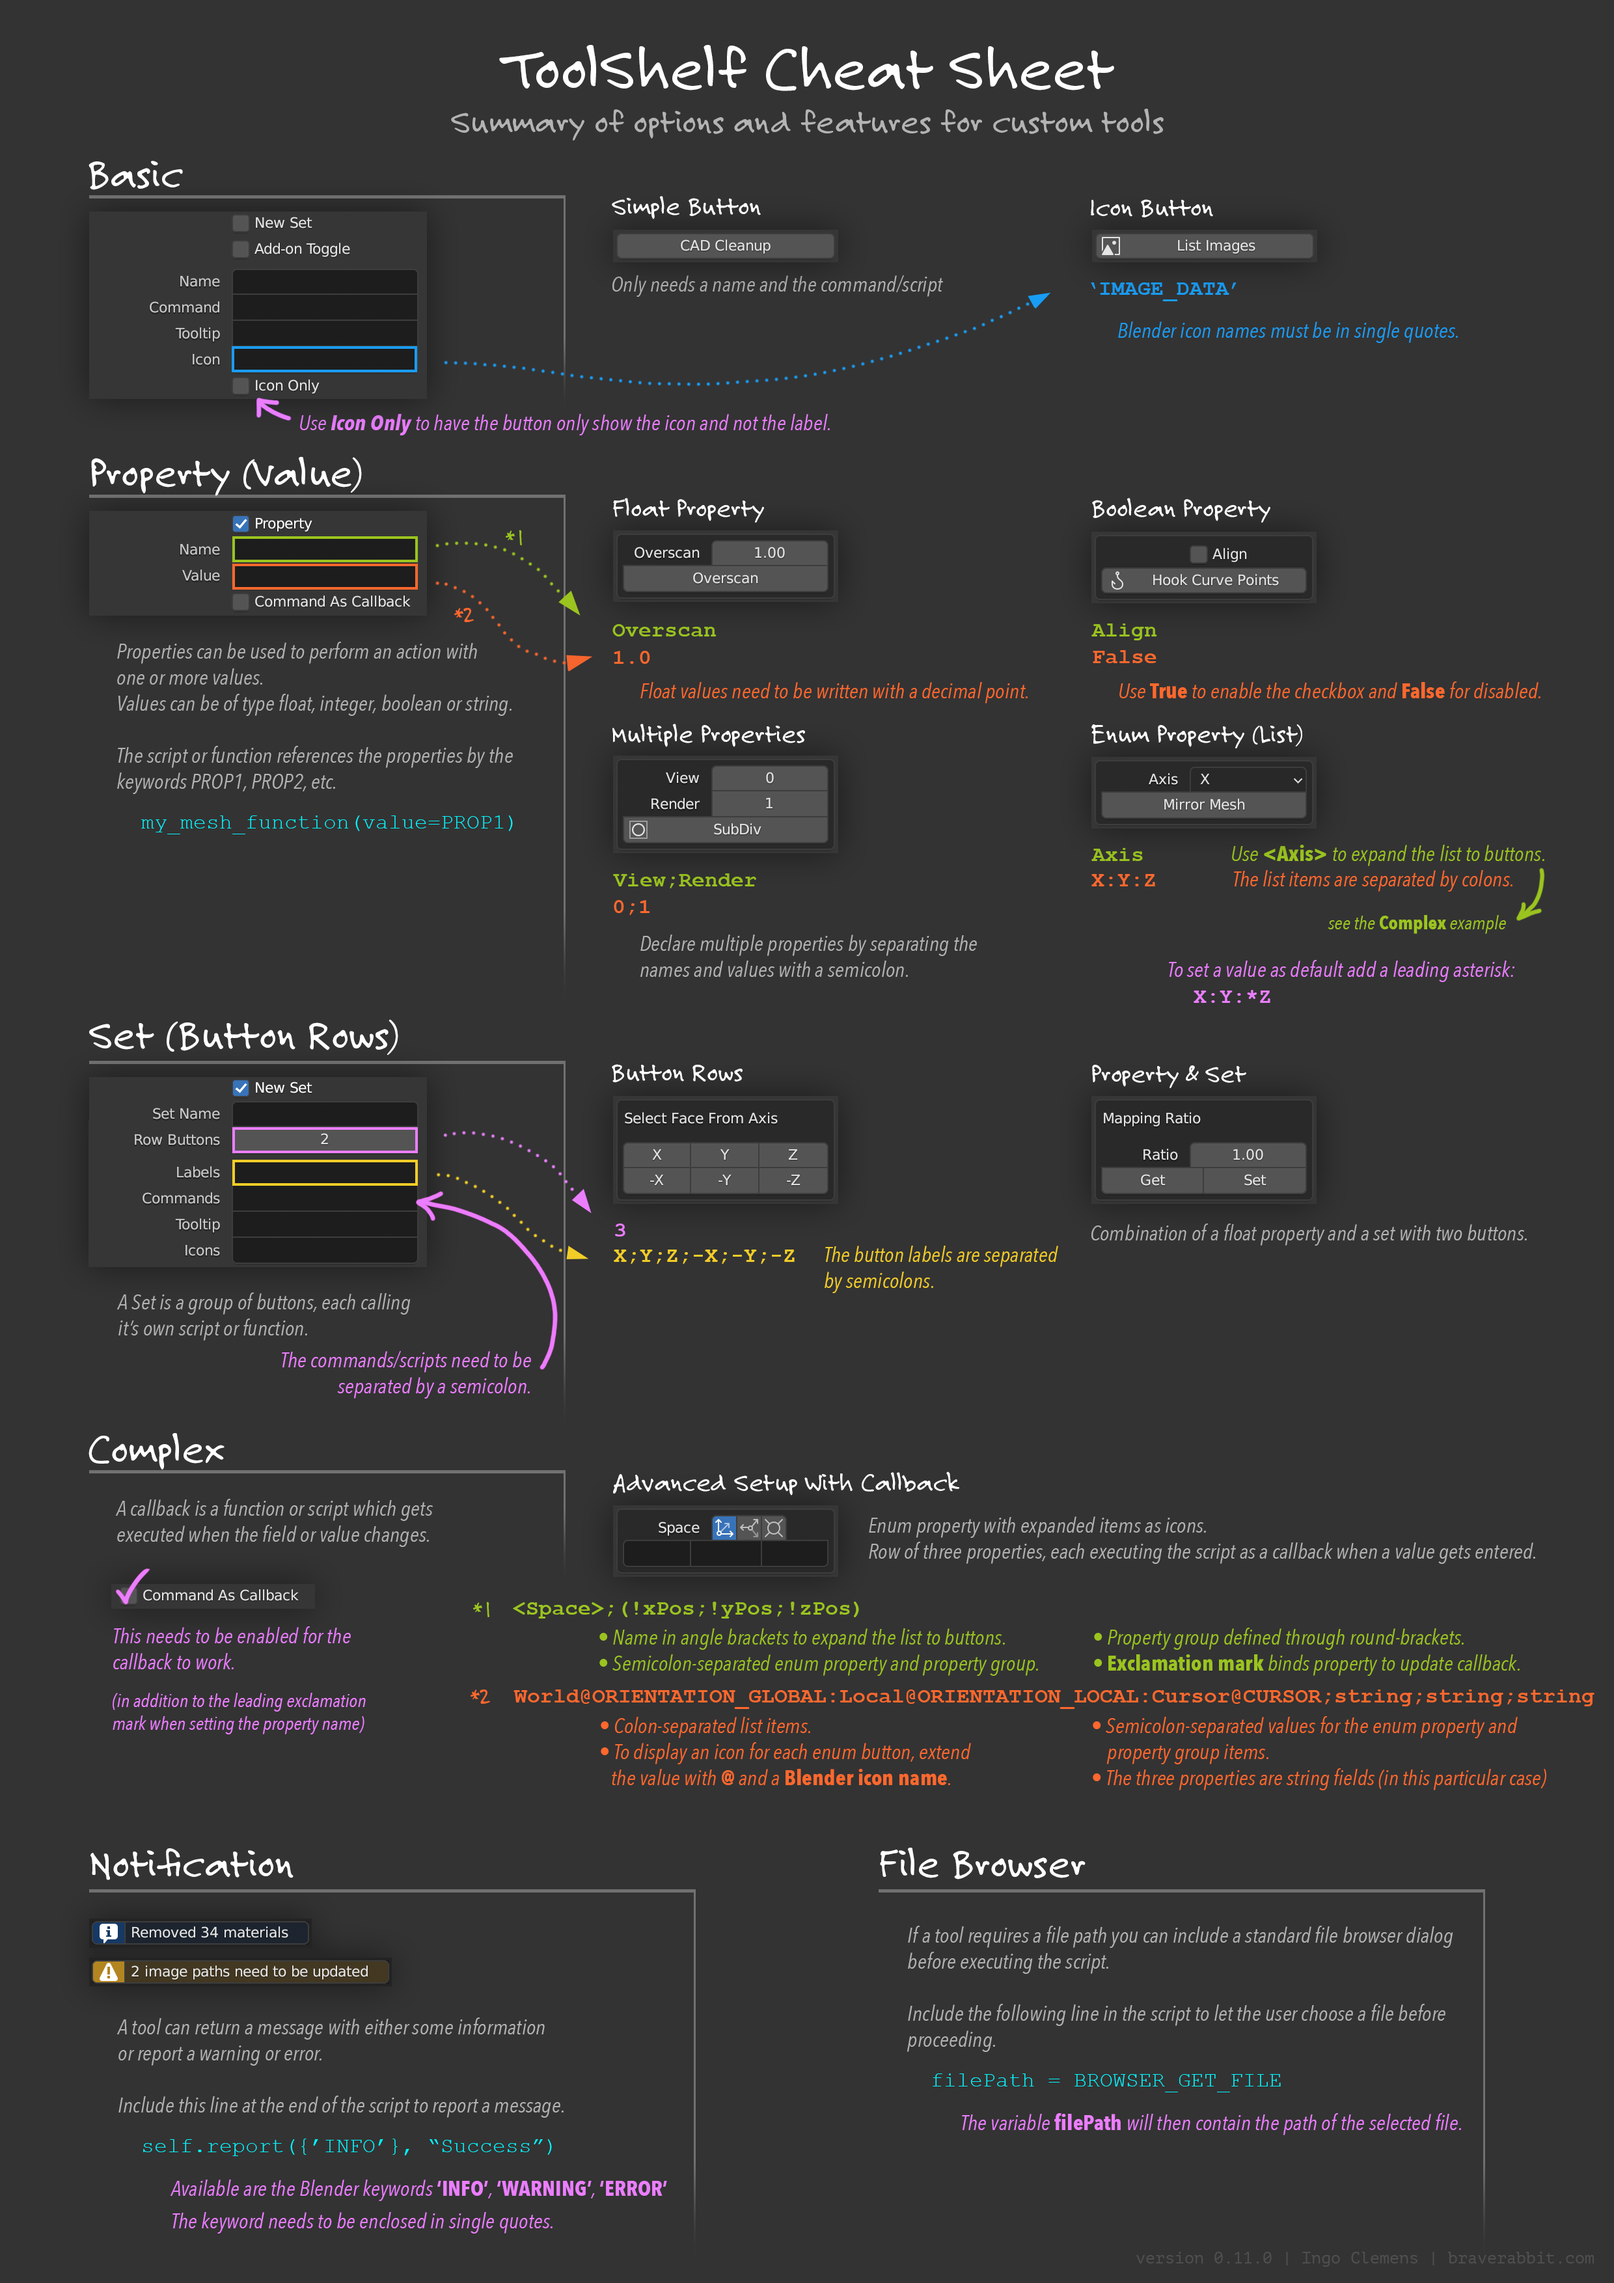
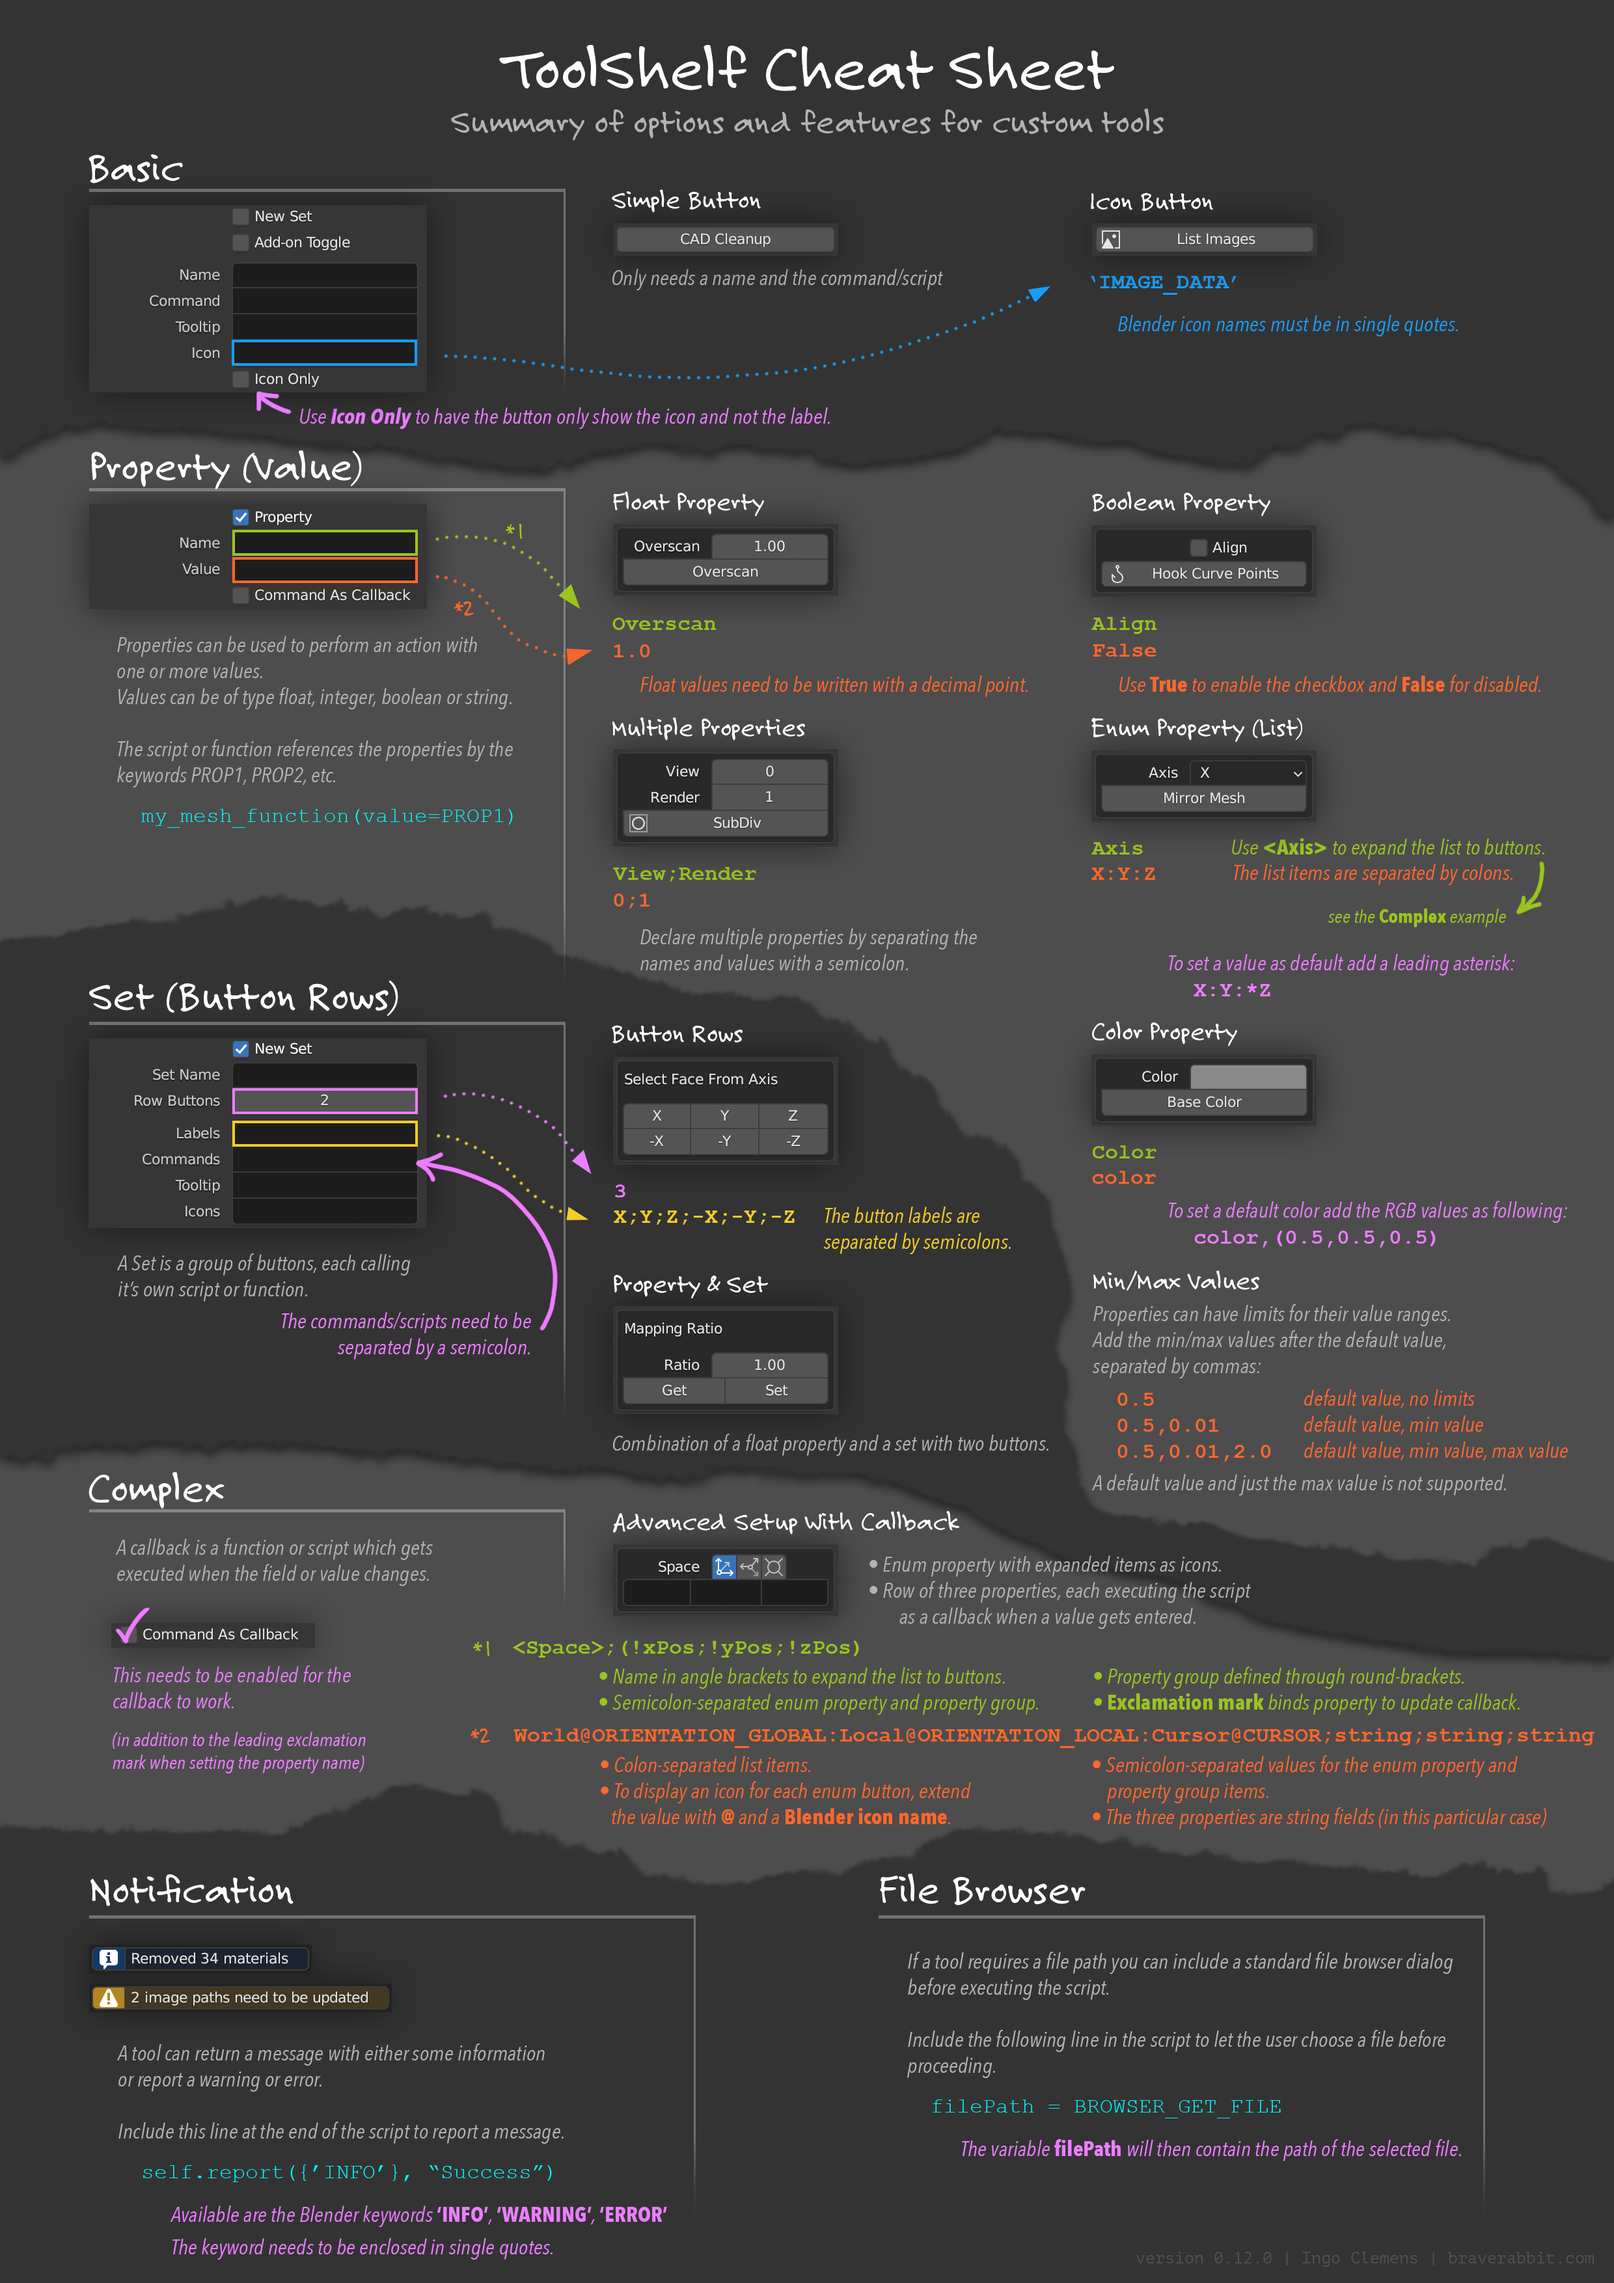
toolShelf 0.12.0 Included a new option to add a color property.

diff --git a/toolShelf/__init__.py b/toolShelf/__init__.py
@@ -1,6 +1,6 @@
 """
 toolShelf
-Copyright (C) 2021-2022, Ingo Clemens, brave rabbit, www.braverabbit.com
+Copyright (C) 2021-2023, Ingo Clemens, brave rabbit, www.braverabbit.com
 
     GNU GENERAL PUBLIC LICENSE Version 3
 
@@ -36,6 +36,8 @@ editor.
 
 Changelog:
 
+0.12.0 - 2023-04-17
+       - Included a new option to add a color property.
 0.11.0 - 2023-03-24
        - Added the option to open a file browser to provide a file path
          for the operator via the BROWSER_GET_FILE placeholder.
@@ -117,7 +119,7 @@ import types
 
 bl_info = {"name": "Tool Shelf",
            "author": "Ingo Clemens",
-           "version": (0, 11, 0),
+           "version": (0, 12, 0),
            "blender": (2, 92, 0),
            "category": "Interface",
            "location": "View3D",
@@ -168,6 +170,26 @@ sys.path.append(SCRIPTS_PATH)
 # idname.
 ALPHANUM = re.compile("\W", re.UNICODE)
 BRACKETS = re.compile("[\[\]()<>]")
+
+COLOR_LABELS = ["rgb", "color", "colour"]
+
+# Define the pattern to replace the value delimiter for any max/min
+# values of color properties.
+COLOR_PATTERN = r"\(([^)]*)\)"
+def replaceColorSeparator(values):
+    """Replace the comma-seaprators in the given value string with
+    single dashes.
+
+        in:  color, (1.0, 0.5, 0.3), (0.5, 0.4, 0.2)
+        out: color,(1.0-0.5-0.3),(0.5-0.4-0.2)
+
+    :param values: The value string to convert.
+    :type values: str
+
+    :return: The converted values string.
+    :rtype: str
+    """
+    return "(" + re.sub(r"[,\s]+", "-", values.group(1)) + ")"
 
 # ----------------------------------------------------------------------
 # Descriptions and tooltips
@@ -587,16 +609,38 @@ def stringToValue(string):
     # Spell-check the property value string.
     string = correctString(string)
 
+    if isinstance(string, str):
+        if string[0] in ["{", "}", "[", "]", "/", "\\", "$", "§", "&"]:
+            return None
+
     if string in ["true", "false"]:
         return string.title() == "True"
+    elif string.startswith("("):
+        items = string[1:-1].split("-")
+        values = []
+        for item in items:
+            try:
+                values.append(float(item))
+            except ValueError:
+                break
+        if len(values) == 3:
+            return "({})".format(",".join([str(v) for v in values]))
+        return ""
     elif len(string.split(".")) > 1:
         return float(string)
     elif string.lower() == "string":
         return "string"
+    elif string.lower() in COLOR_LABELS:
+        return "color"
     elif len(string.split(":")) > 1:
         return "enum"
     else:
-        return int(string)
+        value = None
+        try:
+            value = int(string)
+        except ValueError:
+            pass
+        return value
 
 
 def listToEnumItemsString(items):
@@ -667,6 +711,15 @@ class ToolProperty(object):
             # Values
             # ----------------------------------------------------------
 
+            # Check, if the color property is given a default value.
+            # In this case the comma-separator of the values needs to be
+            # replaced so that the value/min/max comma-splitting can be
+            # performed.
+            for label in COLOR_LABELS:
+                if self.values[i].lower().startswith(label):
+                    self.values[i] = re.sub(COLOR_PATTERN, replaceColorSeparator, self.values[i])
+                    break
+
             valueItems = self.values[i].replace(" ", "").split(",")
             # The values can be split up to three elements: value, min,
             # max.
@@ -681,7 +734,7 @@ class ToolProperty(object):
 
             valueString = ", default={}".format(value)
             minString = ""
-            if minValue is not None:
+            if minValue is not None and not isinstance(minValue, str):
                 minString = ", min={}".format(minValue)
             maxString = ""
             if maxValue is not None:
@@ -698,6 +751,14 @@ class ToolProperty(object):
                 propString = "IntProperty"
             elif isinstance(value, float):
                 propString = "FloatProperty"
+            elif value == "color":
+                propString = "FloatVectorProperty"
+                default = "(0.25, 0.25, 0.25)"
+                if minValue is not None and len(minValue):
+                    default = minValue
+                valueString = ", subtype='COLOR', default={}, min=0.0, max=1.0".format(default)
+                minString = ""
+                maxString = ""
             elif value == "string":
                 propString = "StringProperty"
                 valueString = ""
@@ -2568,49 +2629,6 @@ class TOOLSHELF_OT_MoveItemDown(bpy.types.Operator):
 
 
 # ----------------------------------------------------------------------
-# Operators for getting file paths.
-# ----------------------------------------------------------------------
-
-
-class TOOLSHELF_OT_BrowseFilePath(bpy.types.Operator, ImportHelper):
-    """Open a file browser and return the selected file path.
-    """
-    bl_idname = "toolshelf.browse_file_path"
-    bl_label = "Select File"
-
-    # The callback function to execute when the browser window gets
-    # closed with the selected file item.
-    callback = None
-
-    def execute(self, context):
-        """Execute the operator.
-
-        :param context: The current context.
-        :type context: bpy.context
-        """
-        filepath = self.properties.filepath
-        # Run the callback function if it's defined.
-        if self.callback:
-            self.callback(filepath)
-        return {'FINISHED'}
-
-
-def getFilePath(callback):
-    """Call the operator for opening a file browser dialog to get a file
-    selection.
-
-    This function is provided with a callback function from the caller.
-    This callback function is necessary to return the selected file path
-    to the caller.
-
-    :param callback: The function to return the selected file path to.
-    :type callback: func
-    """
-    bpy.ops.toolshelf.browse_file_path('INVOKE_DEFAULT')
-    TOOLSHELF_OT_BrowseFilePath.callback = lambda self, filepath: callback(self.filepath)
-
-
-# ----------------------------------------------------------------------
 # Helper methods
 # ----------------------------------------------------------------------
 
@@ -2906,7 +2924,6 @@ CLASSES = [Tool_Shelf_Properties,
            TOOLSHELF_OT_Editor,
            TOOLSHELF_OT_MoveItemUp,
            TOOLSHELF_OT_MoveItemDown,
-           TOOLSHELF_OT_BrowseFilePath,
            VIEW3D_PT_ToolShelf_Main,
            VIEW3D_PT_ToolShelf_Sub]
 CLASSES.extend(CMD_CLASSES)
